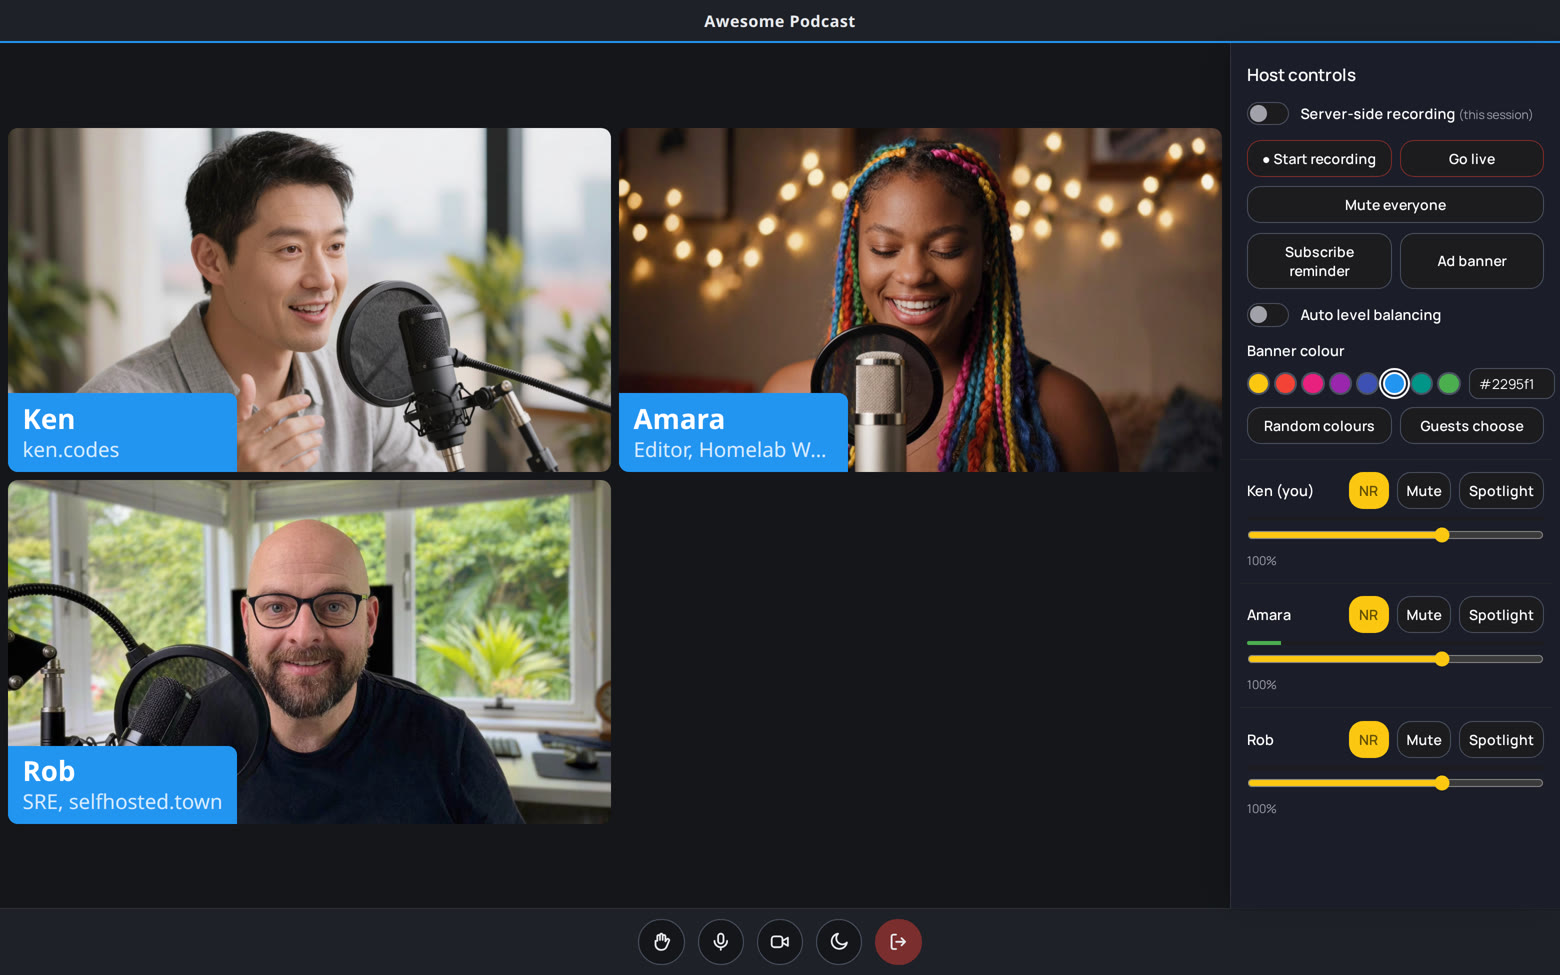
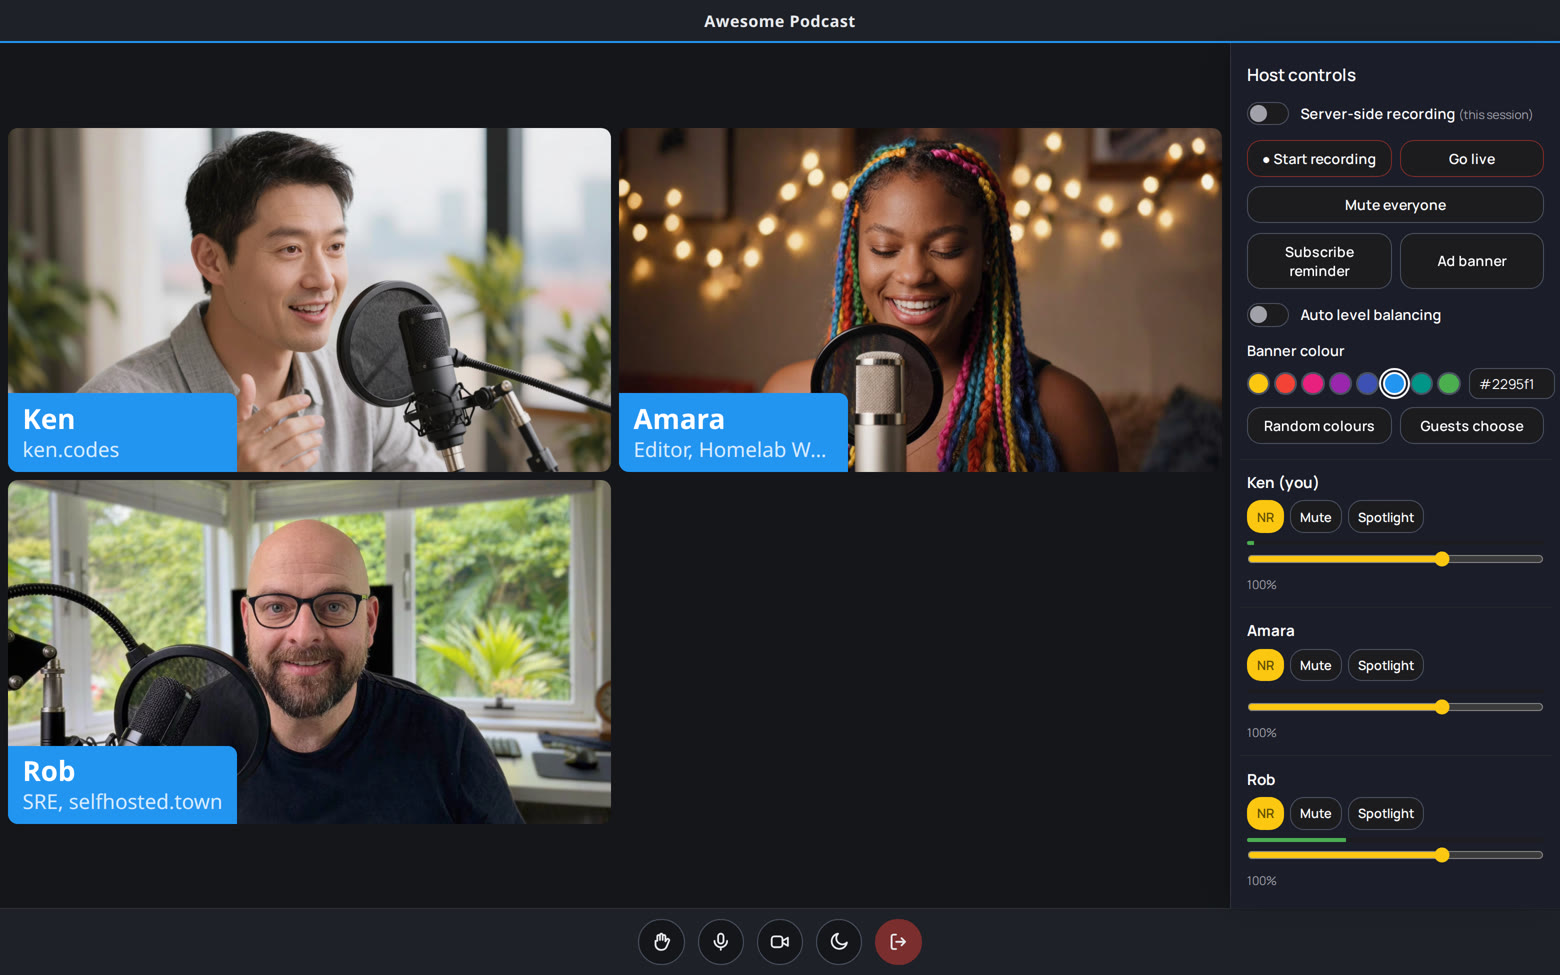
Overlays anytime (session + recordings + stream); panel row rework
DOM overlay playback broadcast to all clients; overlay events logged
during recording and baked into combined.mkv at their timestamps;
public per-owner adbanner endpoint; name-above-buttons rows with
Lower hand control; red mute lights; picker spacing.

Changed region(s): [[0.8, 0.4615, 0.9846, 0.9231]]

diff --git a/web/js/session.js b/web/js/session.js
@@ -637,20 +637,25 @@
       const vol = Math.round((control.volumes[peerId] ?? 1) * 100);
       const muted = !!control.muted?.[peerId];
       const nrOn = !!control.noise?.[peerId];
+      const hand = !!control.hands?.[peerId];
       row.dataset.peerId = peerId;
-      row.classList.toggle("hand", !!control.hands?.[peerId]);
+      row.classList.toggle("hand", hand);
       row.innerHTML = `
-        <div class="hp-name">
-          <span></span>
+        <div class="hp-name-line"></div>
+        <div class="hp-btns">
           <button class="hp-btn nr${nrOn ? " active" : ""}" data-tip="${nrOn ? "Noise reduction is on — click to turn off" : "Noise reduction is OFF — click to turn on"}">NR</button>
           <button class="hp-btn mute">${muted ? "Unmute" : "Mute"}</button>
           <button class="hp-btn spot">Spotlight</button>
+          ${hand ? '<button class="hp-btn lower" data-tip="Lower their hand">Lower hand</button>' : ""}
         </div>
         <div class="hp-meter"><div class="hp-meter-fill"></div></div>
         <input type="range" min="0" max="150" value="${vol}" aria-label="Volume">
         <span class="hp-vol">${vol}%</span>`;
-      row.querySelector("span").textContent =
-        (control.hands?.[peerId] ? "✋ " : "") + (isSelf ? `${tile.name} (you)` : tile.name);
+      row.querySelector(".hp-name-line").textContent = isSelf ? `${tile.name} (you)` : tile.name;
+      if (hand) {
+        row.querySelector(".lower").onclick = () =>
+          request("hostControl", { action: "lowerHand", peerId });
+      }
       row.querySelector(".nr").onclick = () => {
         request("hostControl", { action: "noise", peerId, enabled: !nrOn });
       };
@@ -751,6 +756,29 @@
       recUpload = null;
     }
     setRecIndicator(false);
+  }
+
+  // ---------- In-session overlay playback (subscribe / ad) ----------
+
+  function playDomOverlay({ kind, duration, url }) {
+    document.querySelectorAll(".live-overlay").forEach((el) => el.remove());
+    const el = document.createElement("div");
+    el.className = `live-overlay ${kind}`;
+    if (kind === "subscribe") {
+      el.innerHTML = `
+        <div class="lo-btn">SUBSCRIBE</div>
+        <div class="lo-bell"><span>🔔</span></div>
+        <div class="lo-msg">Enjoying the show? Subscribe and hit the bell —<br>choose <b>ALL notifications</b></div>`;
+    } else {
+      const img = document.createElement("img");
+      img.src = url;
+      img.alt = "Sponsor banner";
+      el.appendChild(img);
+    }
+    els.grid.appendChild(el);
+    requestAnimationFrame(() => el.classList.add("in"));
+    setTimeout(() => el.classList.remove("in"), (duration - 0.6) * 1000);
+    setTimeout(() => el.remove(), duration * 1000);
   }
 
   // Panel sound meters: read each analyser ~8x a second
@@ -946,6 +974,7 @@
         recorders.length ? stopSelfRecording() : setRecIndicator(false);
       };
       eventHandlers.streaming = ({ live: isLive }) => setLiveIndicator(isLive);
+      eventHandlers.overlay = playDomOverlay;
       if (info.streaming) setLiveIndicator(true);
 
       joined = true;

diff --git a/web/css/session.css b/web/css/session.css
@@ -175,6 +175,7 @@ body {
 .hp-btn.record { border-color: #7a2e2e; }
 .hp-btn.rec-on { background: #7a2e2e; color: #fff; }
 .grid {
+  position: relative;
   flex: 1;
   display: grid;
   gap: 8px;
@@ -258,6 +259,58 @@ body {
   outline: 2px solid var(--accent, #4a7dbd);
   outline-offset: 2px;
 }
+
+/* ---------- In-session overlays (subscribe / ad) ---------- */
+.live-overlay {
+  position: absolute;
+  z-index: 6;
+  pointer-events: none;
+  transition: transform 450ms ease, opacity 450ms ease;
+}
+.live-overlay.subscribe {
+  left: 0;
+  right: 0;
+  bottom: 0;
+  display: flex;
+  align-items: center;
+  gap: 2.2%;
+  padding: 1.2% 4%;
+  background: linear-gradient(90deg, #17191e, #24262c 55%, #17191e);
+  border-top: 4px solid #fbc711;
+  transform: translateY(110%);
+}
+.live-overlay.subscribe.in { transform: translateY(0); }
+.lo-btn {
+  background: #ff0033;
+  color: #fff;
+  font-weight: 800;
+  font-size: clamp(0.9rem, 2.6vw, 2.2rem);
+  letter-spacing: 0.03em;
+  padding: 0.5em 1.1em;
+  border-radius: 0.35em;
+  animation: lo-pulse 1.2s ease-in-out infinite;
+}
+@keyframes lo-pulse { 0%,100% { transform: scale(1);} 50% { transform: scale(1.07);} }
+.lo-bell {
+  background: #fff;
+  border-radius: 50%;
+  width: clamp(2rem, 4.5vw, 4.5rem);
+  height: clamp(2rem, 4.5vw, 4.5rem);
+  display: grid;
+  place-items: center;
+  font-size: clamp(1.1rem, 2.6vw, 2.6rem);
+}
+.lo-bell span { display: inline-block; transform-origin: top center; animation: lo-swing 1s ease-in-out infinite; }
+@keyframes lo-swing { 0%,100% { transform: rotate(0);} 25% { transform: rotate(-22deg);} 75% { transform: rotate(22deg);} }
+.lo-msg { color: #fff; font-weight: 700; font-size: clamp(0.8rem, 1.9vw, 1.9rem); line-height: 1.3; }
+.lo-msg b { color: #fbc711; }
+.live-overlay.ad {
+  right: 24px;
+  bottom: 24px;
+  transform: translateY(calc(100% + 24px));
+}
+.live-overlay.ad.in { transform: translateY(0); }
+.live-overlay.ad img { display: block; height: clamp(70px, 12vh, 150px); width: auto; border-radius: 8px; }
 
 /* ---------- Spotlight layout ----------
    Featured tile fills the top; everyone else shrinks to a bottom strip. */
@@ -414,9 +467,16 @@ body.dim-ui .banner:hover { opacity: 1; }
 }
 .hp-guest { border-top: 1px solid var(--lm-line); padding: 0.8rem 0.5rem; margin: 0 -0.5rem; }
 .hp-guest.hand { background: rgba(251, 199, 17, 0.14); border-radius: 10px; }
-.hp-guest .hp-name { display: flex; align-items: center; gap: 0.5rem; font-size: 0.9rem; font-weight: 600; }
-.hp-guest .hp-name button { margin-left: auto; flex: 0 0 auto; }
-.hp-guest .hp-name button + button { margin-left: 0; }
+.hp-guest .hp-name-line {
+  font-size: 0.95rem;
+  font-weight: 700;
+  margin-bottom: 0.45rem;
+  overflow: hidden;
+  text-overflow: ellipsis;
+  white-space: nowrap;
+}
+.hp-guest .hp-btns { display: flex; gap: 0.4rem; flex-wrap: wrap; }
+.hp-guest .hp-btns .hp-btn { flex: 0 1 auto; font-size: 0.8rem; padding: 0.4rem 0.55rem; }
 .hp-guest input[type="range"] { width: 100%; margin-top: 0.35rem; accent-color: var(--lm-accent); }
 .hp-meter {
   height: 4px;

diff --git a/server/src/signaling.js b/server/src/signaling.js
@@ -14,7 +14,7 @@ import { getSettings, updateSettings, findSession } from "./settings.js";
 import { notifyUser } from "./push.js";
 import {
   startRecording, stopRecording, activeRecording,
-  addPeerToRecording, uploadCreds, markPeerDone
+  addPeerToRecording, uploadCreds, markPeerDone, logOverlay
 } from "./recording/manager.js";
 import { capturePeer } from "./recording/serverRecorder.js";
 import { startStream, stopStream, isStreaming, refreshStream, showOverlay } from "./streaming.js";
@@ -194,6 +194,10 @@ export function attachSignaling(httpServer) {
                 }
                 break;
               }
+              case "lowerHand": {
+                delete c.hands[data.peerId];
+                break;
+              }
               case "noise": {
                 if (!room.peers.has(data.peerId)) return fail("no such guest");
                 c.noise[data.peerId] = !!data.enabled;
@@ -237,23 +241,26 @@ export function attachSignaling(httpServer) {
                 return reply({});
               }
               case "overlay": {
-                if (!isStreaming(room.id)) {
-                  return fail("Go live first — overlays appear on the stream.");
-                }
-                if (data.kind === "subscribe") {
-                  await showOverlay(room.id, { kind: "subscribe", duration: 7 });
-                } else if (data.kind === "ad") {
+                if (!["subscribe", "ad"].includes(data.kind)) return fail("unknown overlay");
+                let adFile = null;
+                let url = null;
+                if (data.kind === "ad") {
                   const settings2 = await getSettings(room.ownerId);
                   if (!settings2.adBanner) {
                     return fail("Upload an advertising banner in Settings → Streaming first.");
                   }
-                  await showOverlay(room.id, {
-                    kind: "ad",
-                    duration: 18,
-                    file: path.join(config.dataDir, "uploads", path.basename(settings2.adBanner))
-                  });
-                } else {
-                  return fail("unknown overlay");
+                  adFile = path.join(config.dataDir, "uploads", path.basename(settings2.adBanner));
+                  url = `/api/adbanner/${room.ownerId}`;
+                }
+                const duration = data.kind === "subscribe" ? 7 : 18;
+                // Everyone sees it in the session immediately
+                broadcast(room, null, { event: "overlay", data: { kind: data.kind, duration, url } });
+                // Recording? bake it into the final video at this moment
+                const recNow2 = activeRecording(room.id);
+                if (recNow2) await logOverlay(recNow2, data.kind, adFile);
+                // Live? composite it onto the stream too
+                if (isStreaming(room.id)) {
+                  await showOverlay(room.id, { kind: data.kind, duration, file: adFile });
                 }
                 return reply({});
               }

diff --git a/server/src/recording/processor.js b/server/src/recording/processor.js
@@ -5,6 +5,9 @@ import { spawn } from "node:child_process";
 import fs from "node:fs/promises";
 import path from "node:path";
 import { recDir } from "./manager.js";
+import { fileURLToPath } from "node:url";
+
+const ASSETS = path.join(path.dirname(fileURLToPath(import.meta.url)), "..", "..", "assets");
 
 function ffmpeg(args, label) {
   return new Promise((resolve, reject) => {
@@ -97,6 +100,28 @@ export async function processRecording(rec) {
     const stack = videos.length === 1
       ? `[v0]copy[vout]`
       : `${videos.map((p, i) => `[v${i}]`).join("")}xstack=inputs=${videos.length}:layout=${layout.join("|")}:fill=black[vout]`;
+    // Bake in any overlays triggered during the recording
+    let finalLabel = "[vout]";
+    let overlayFilters = "";
+    (rec.overlays || []).forEach((ov, i) => {
+      const t0 = (ov.offsetMs / 1000).toFixed(2);
+      const dur = ov.kind === "subscribe" ? 6 : 18;
+      const t1 = (Number(t0) + dur).toFixed(2);
+      const oi = inputIdx.size;
+      const slide = (m) =>
+        `'main_h-(overlay_h+${m})*clip(min((t-${t0})/0.5\,(${t1}-t)/0.5)\,0\,1)'`;
+      if (ov.kind === "subscribe") {
+        args.push("-itsoffset", t0, "-i", path.join(ASSETS, "subscribe.mp4"));
+        inputIdx.set(`__ov${i}`, oi);
+        overlayFilters += `;[${oi}:v]scale=${cols * cellW}:-2[ovs${i}];${finalLabel}[ovs${i}]overlay=x=0:y=${slide(0)}:eof_action=pass:enable='between(t\,${t0}\,${t1})'[vo${i}]`;
+      } else if (ov.file) {
+        args.push("-loop", "1", "-i", path.join(raw, ov.file));
+        inputIdx.set(`__ov${i}`, oi);
+        overlayFilters += `;[${oi}:v]scale=-2:150[ovs${i}];${finalLabel}[ovs${i}]overlay=x=main_w-overlay_w-24:y=${slide(24)}:eof_action=pass:enable='between(t\,${t0}\,${t1})'[vo${i}]`;
+      } else { return; }
+      finalLabel = `[vo${i}]`;
+    });
+
     const amix = audios.length === 0
       ? null
       : audios.length === 1
@@ -105,8 +130,8 @@ export async function processRecording(rec) {
 
     await ffmpeg([
       ...args,
-      "-filter_complex", [scaled, stack, amix].filter(Boolean).join(";"),
-      "-map", "[vout]", ...(amix ? ["-map", "[aout]"] : []),
+      "-filter_complex", [scaled, stack, amix].filter(Boolean).join(";") + overlayFilters,
+      "-map", finalLabel, ...(amix ? ["-map", "[aout]"] : []),
       "-c:v", "libx264", "-preset", "veryfast", "-crf", "20",
       "-c:a", "aac", "-b:a", "192k",
       "-y", path.join(out, "combined.mkv")

diff --git a/server/src/recording/manager.js b/server/src/recording/manager.js
@@ -36,6 +36,19 @@ export function activeRecording(roomId) {
   return active.get(roomId) || null;
 }
 
+export async function logOverlay(rec, kind, adFile) {
+  const entry = { kind, offsetMs: Date.now() - rec.startedAt };
+  if (adFile) {
+    // Snapshot the ad image now, in case the host replaces it later
+    const fsMod = await import("node:fs/promises");
+    const pathMod = await import("node:path");
+    const name = `ad-ov-${rec.overlays.length}${pathMod.extname(adFile)}`;
+    await fsMod.copyFile(adFile, pathMod.join(recDir(rec.id), "raw", name));
+    entry.file = name;
+  }
+  rec.overlays.push(entry);
+}
+
 export function uploadCreds(rec, peerId) {
   return { recId: rec.id, peerId, token: uploadToken(rec.id, peerId) };
 }
@@ -61,6 +74,7 @@ export async function startRecording(room, mode) {
     mode,
     startedAt: Date.now(),
     peers: new Map(), // peerId -> {name, files:{}, clientStartOffsetMs, done}
+    overlays: [],     // {kind, offsetMs, file?} baked into combined.mkv
     stopping: false
   };
   await fs.mkdir(path.join(recDir(recId), "raw"), { recursive: true });

diff --git a/server/src/api.js b/server/src/api.js
@@ -300,6 +300,12 @@ api.delete("/adbanner", requireAuth, async (req, res) => {
   res.json({ ok: true });
 });
 
+api.get("/adbanner/:uid", async (req, res) => {
+  const s = await getSettings(path.basename(req.params.uid));
+  if (!s.adBanner) return res.status(404).end();
+  res.sendFile(path.join(config.dataDir, "uploads", path.basename(s.adBanner)));
+});
+
 api.get("/adbanner", requireAuth, async (req, res) => {
   const s = await getSettings(req.user.uid);
   if (!s.adBanner) return res.status(404).end();

diff --git a/CHANGELOG.md b/CHANGELOG.md
@@ -4,10 +4,13 @@ All notable changes to FOSSStudio are documented here.
 
 ## Unreleased
 
-- **Stream overlays**: host-panel buttons play a subscribe/notification-
-  bell animation or show an uploaded advertising banner on the live
-  YouTube stream for a few seconds (ad banner uploads live in
-  Settings → Streaming)
+- **Overlays**: host-panel buttons play a subscribe/notification-bell
+  animation or show an uploaded advertising banner (Settings →
+  Streaming). They appear instantly in everyone's session view (no need
+  to be live — test any time), are **baked into recordings** at the
+  moment you pressed them, and composite onto the live stream when live
+- Host panel rows: name on its own line (fits 24-char names), buttons
+  beneath; hosts can **lower a raised hand**
 - **Raise hand**: guests press a hand button when they want to talk;
   their row lights up in the host panel, and unmuting them lowers it
 - Mute lights turn red; colour picker spacing fixed
